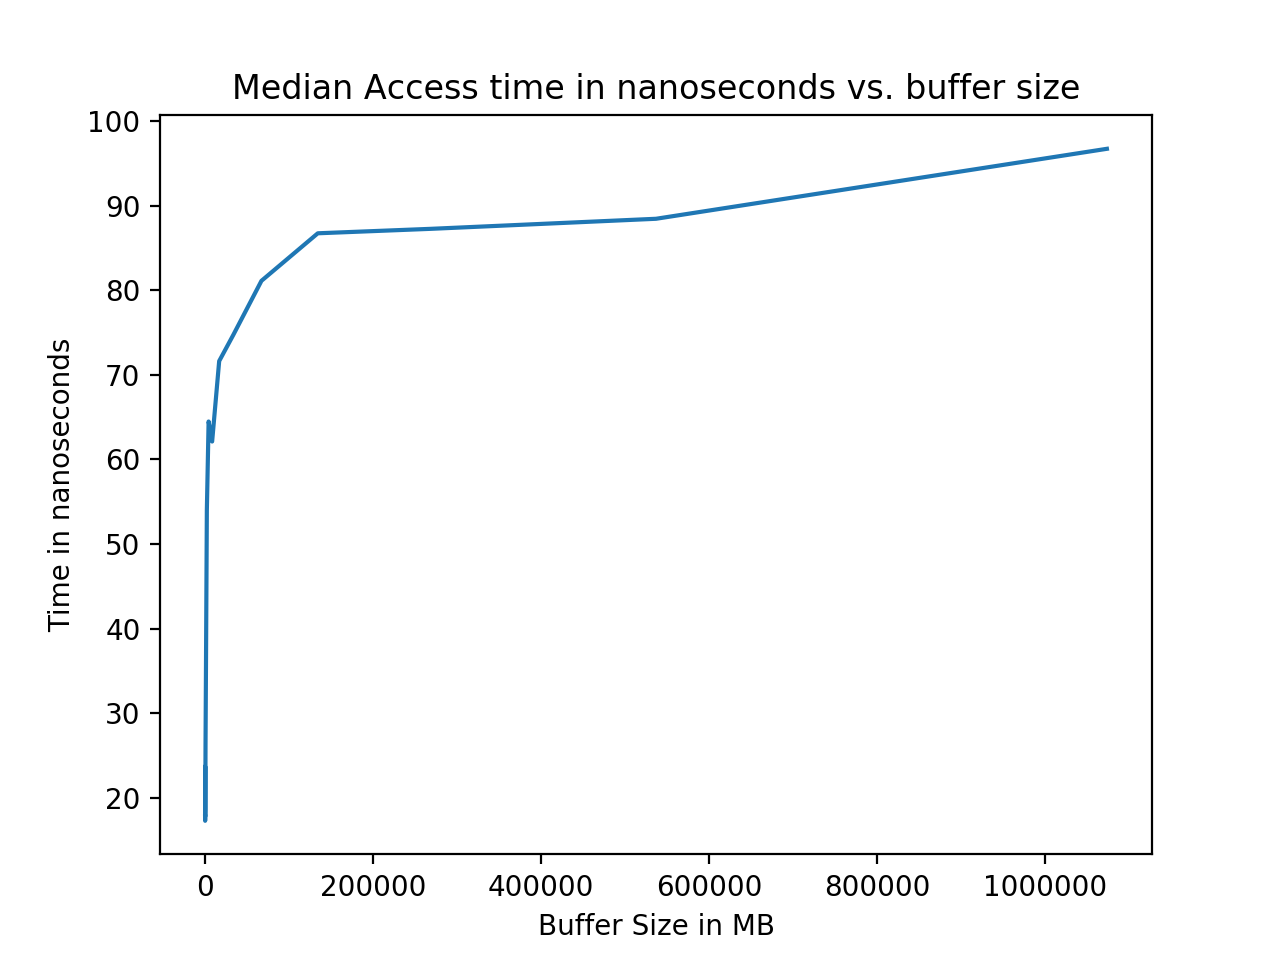
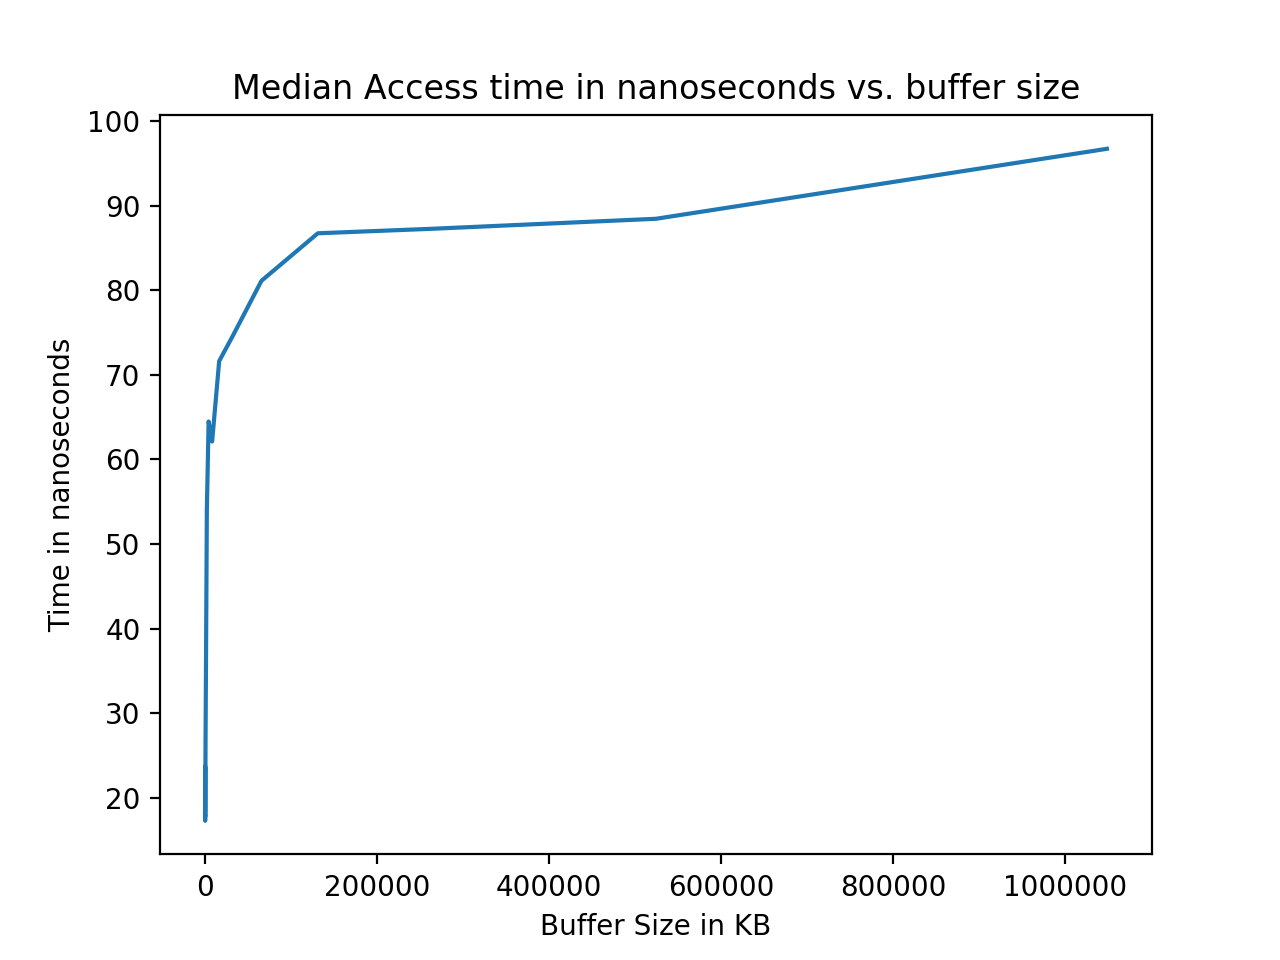
Fixed small error in plots

Changed region(s): [[0.375, 0.9062, 0.875, 1.0], [0.25, 0.9062, 0.3438, 0.9375]]

diff --git a/systemshw1/plot_buffer.py b/systemshw1/plot_buffer.py
@@ -37,21 +37,28 @@ def take_min(l1, l2, l3, l4, l5, l6, l7, l8, l9, l10, l11):
         mins.append(min(l1[i],l2[i], l3[i], l4[i], l5[i], l6[i], l7[i], l8[i], l9[i], l10[i], l11[i]))
     return mins
 
+def take_median(l1, l2, l3, l4, l5, l6, l7, l8, l9, l10, l11):
+    meds = []
+    for i in range(len(l1)):
+        meds.append(statistics.median([l1[i],l2[i], l3[i], l4[i], l5[i], l6[i], l7[i], l8[i], l9[i], l10[i], l11[i]]))
+    return meds
+
 avgs = take_average(coords_1, coords_2, coords_3, coords_4, coords_5, coords_6, coords_7, coords_8, coords_9, coords_10, coords_11)
 mins = take_min(coords_1, coords_2, coords_3, coords_4, coords_5, coords_6, coords_7, coords_8, coords_9, coords_10, coords_11)
+meds = take_median(coords_1, coords_2, coords_3, coords_4, coords_5, coords_6, coords_7, coords_8, coords_9, coords_10, coords_11)
 import matplotlib.pyplot as plt
 
 
-plt.title("Mean Access time in nanoseconds vs. buffer size")
+plt.title("Median Access time in nanoseconds vs. buffer size")
 
 x_axis = []
 for i in range(10,30):
-    x_axis.append(2**(i+1)/1000)
+    x_axis.append(2**(i+1)/1024)
 
-plt.plot(x_axis, avgs)
+plt.plot(x_axis, meds)
 
 #plt.xticks(x_axis)
 
-plt.xlabel("Buffer Size in MB")
+plt.xlabel("Buffer Size in KB")
 plt.ylabel("Time in nanoseconds")
 plt.show()
